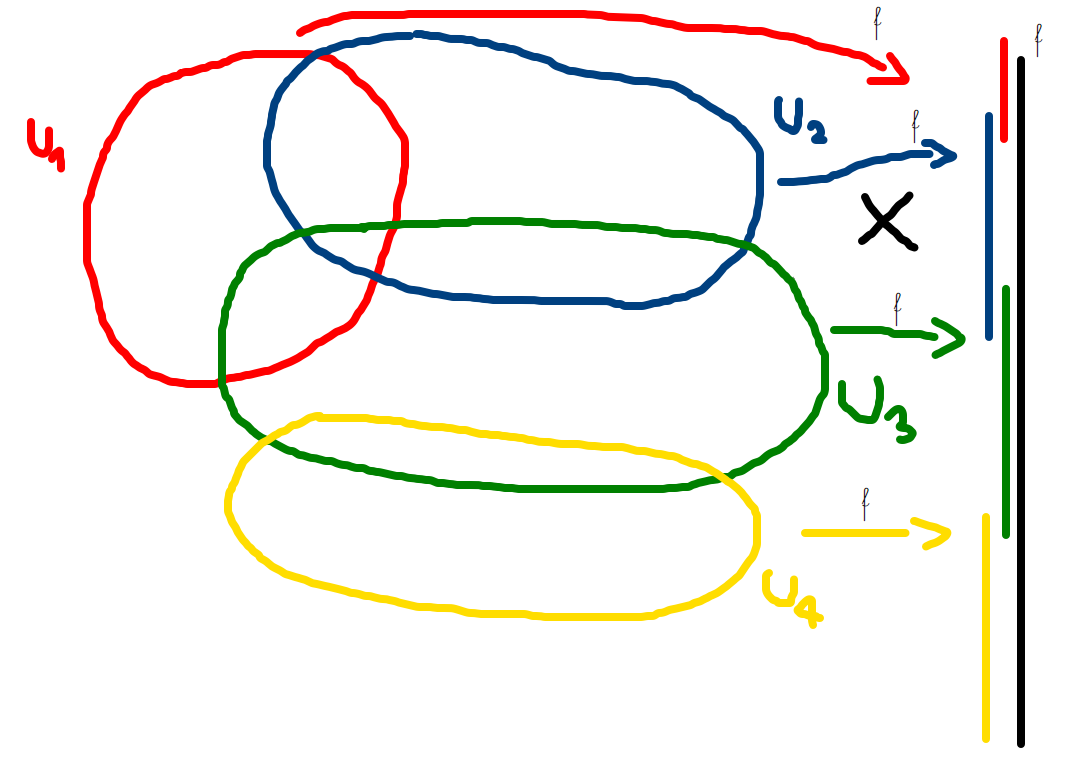
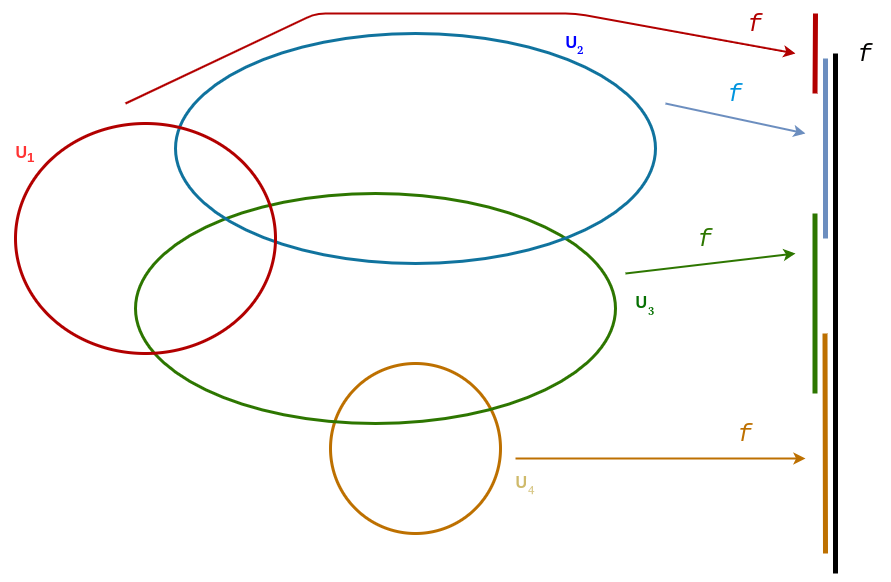
Replace construction images

diff --git a/README.md b/README.md
@@ -150,7 +150,7 @@ Assume we have finite covering U = {U<sub>a</sub> | a ∈ A}
 of space X where A is indexing set (image _construction-1_). 
 
 ![construction-1](docs/images/construction-1.png)
-<p align="center">construction-1: Space X with finite covering U = {U<sub>1</sub>, U<sub>2</sub>, U<sub>3</sub>, U<sub>4</sub>}</p>
+<p align="center">construction-1: Space X, defined by black border, with finite covering U = {U<sub>1</sub>, U<sub>2</sub>, U<sub>3</sub>, U<sub>4</sub>}</p>
 
 
 We can define nerve of the covering U 
@@ -158,7 +158,7 @@ to be simplical complex N(U) (image _constructin-2_):
 - Vertices of N(U) are named by index set A. 
 - Family {a<sub>0</sub>, ..., a<sub>k</sub>} forms k-simplex
 in N(U) (vertices of simplex) if and only if U<sub>a<sub>0</sub></sub> 
-∩ U<sub>a<sub>1</sub></sub ∩ ... ∩ U<sub>a<sub>k</sub></sub> is 
+∩ U<sub>a<sub>1</sub></sub> ∩ ... ∩ U<sub>a<sub>k</sub></sub> is 
 non-empty set. [[3]](#3)
 
 ![construction-2](docs/images/construction-2.png)
